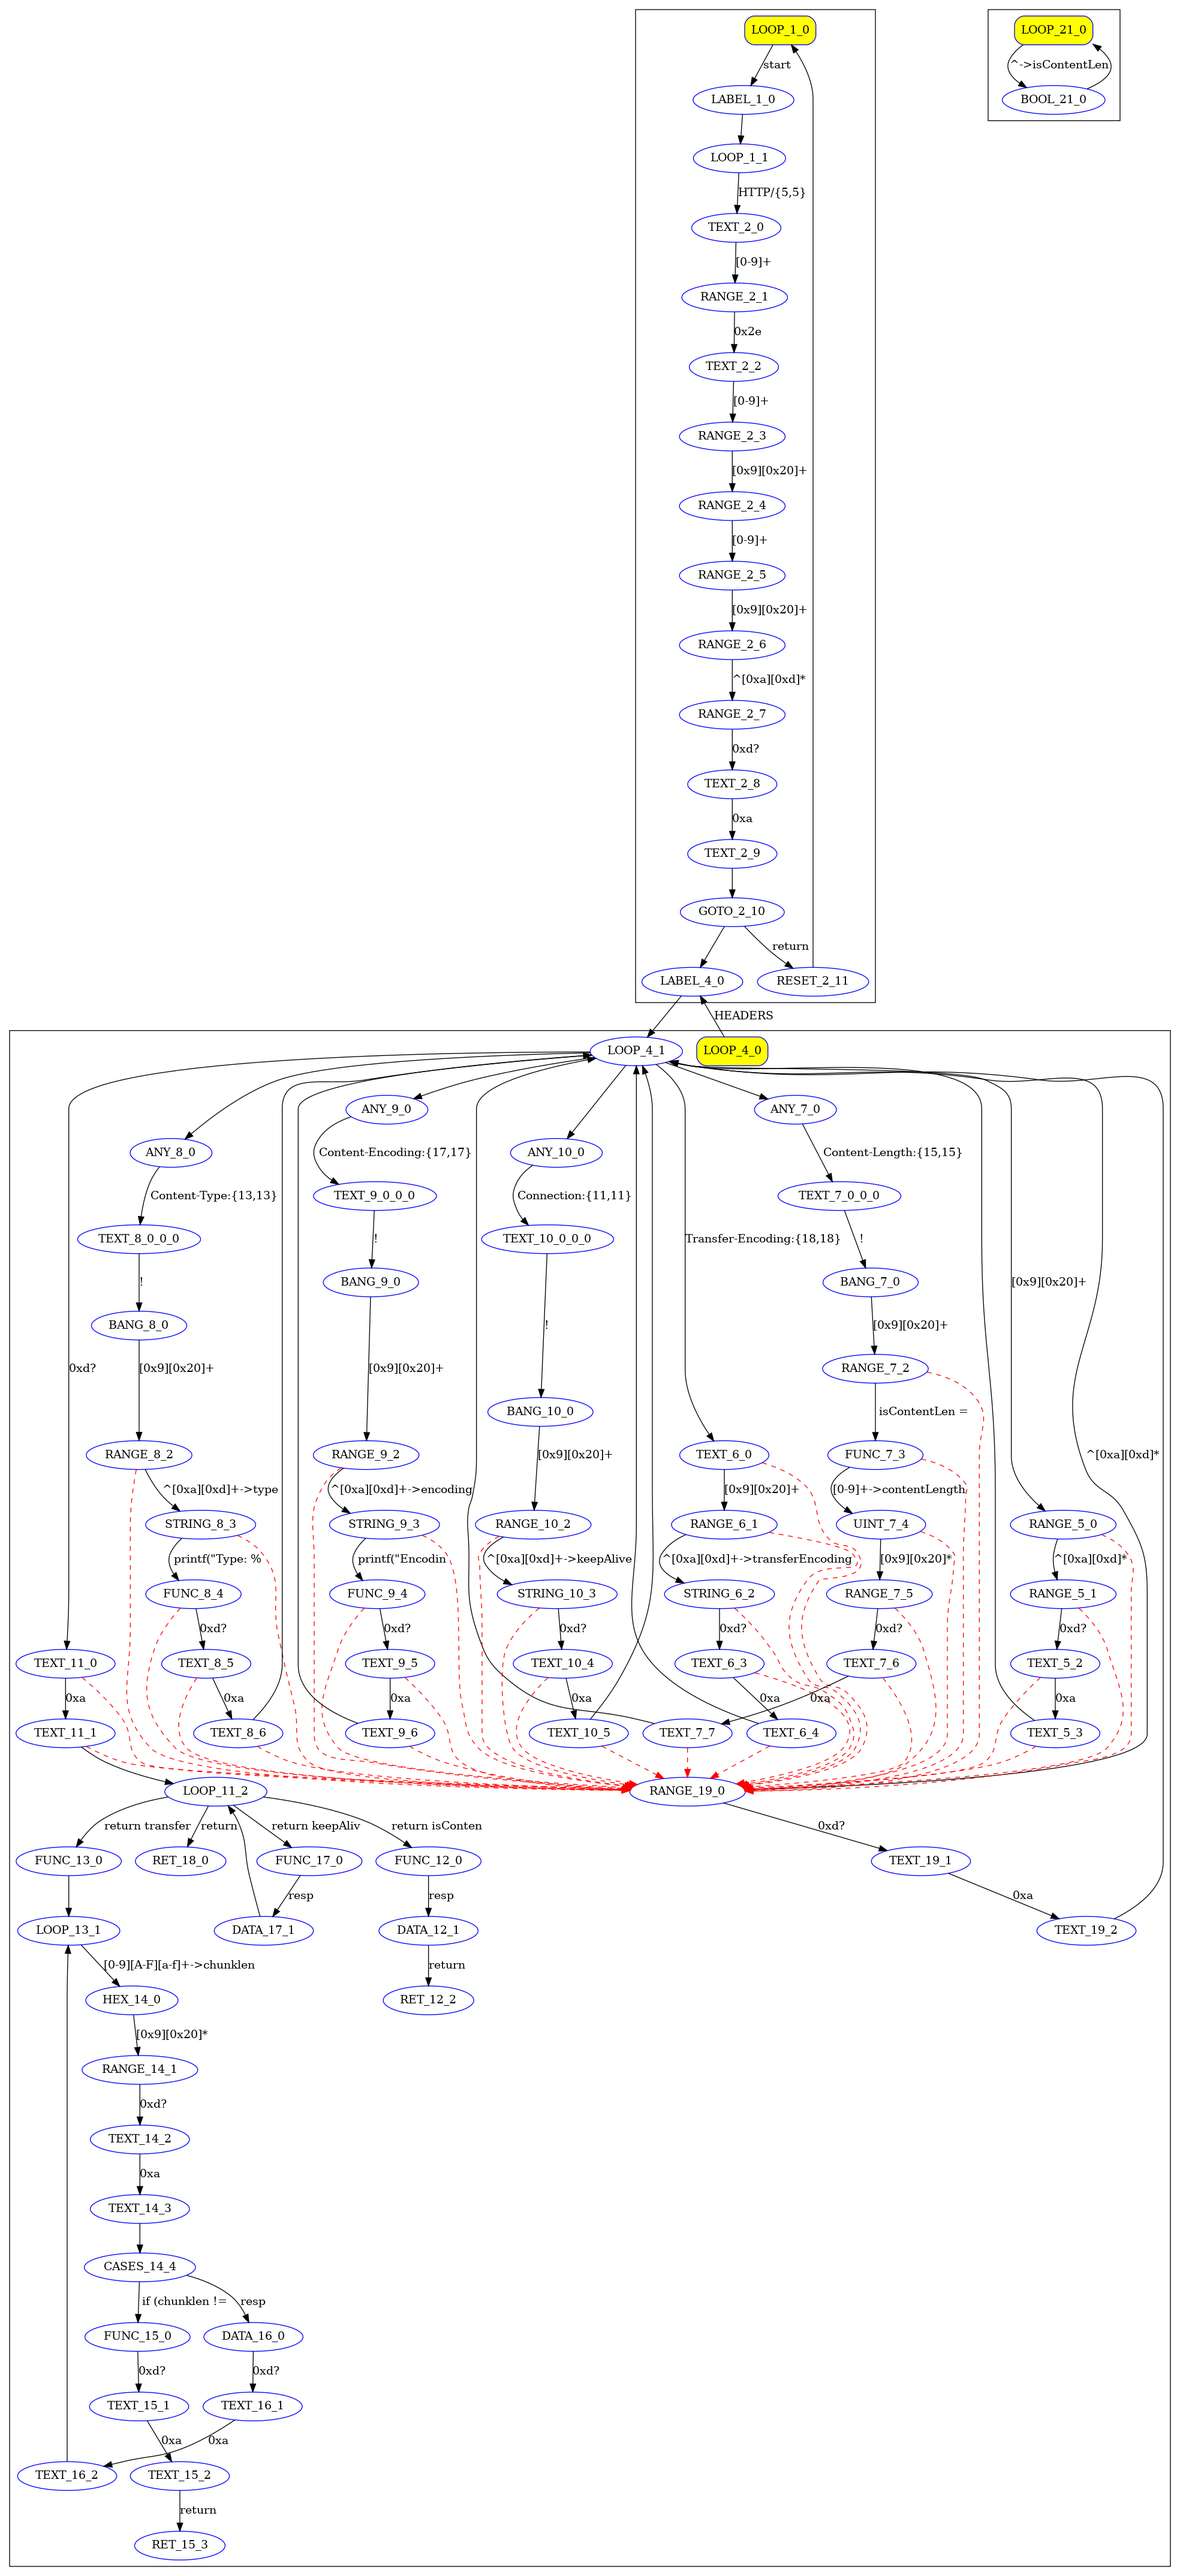
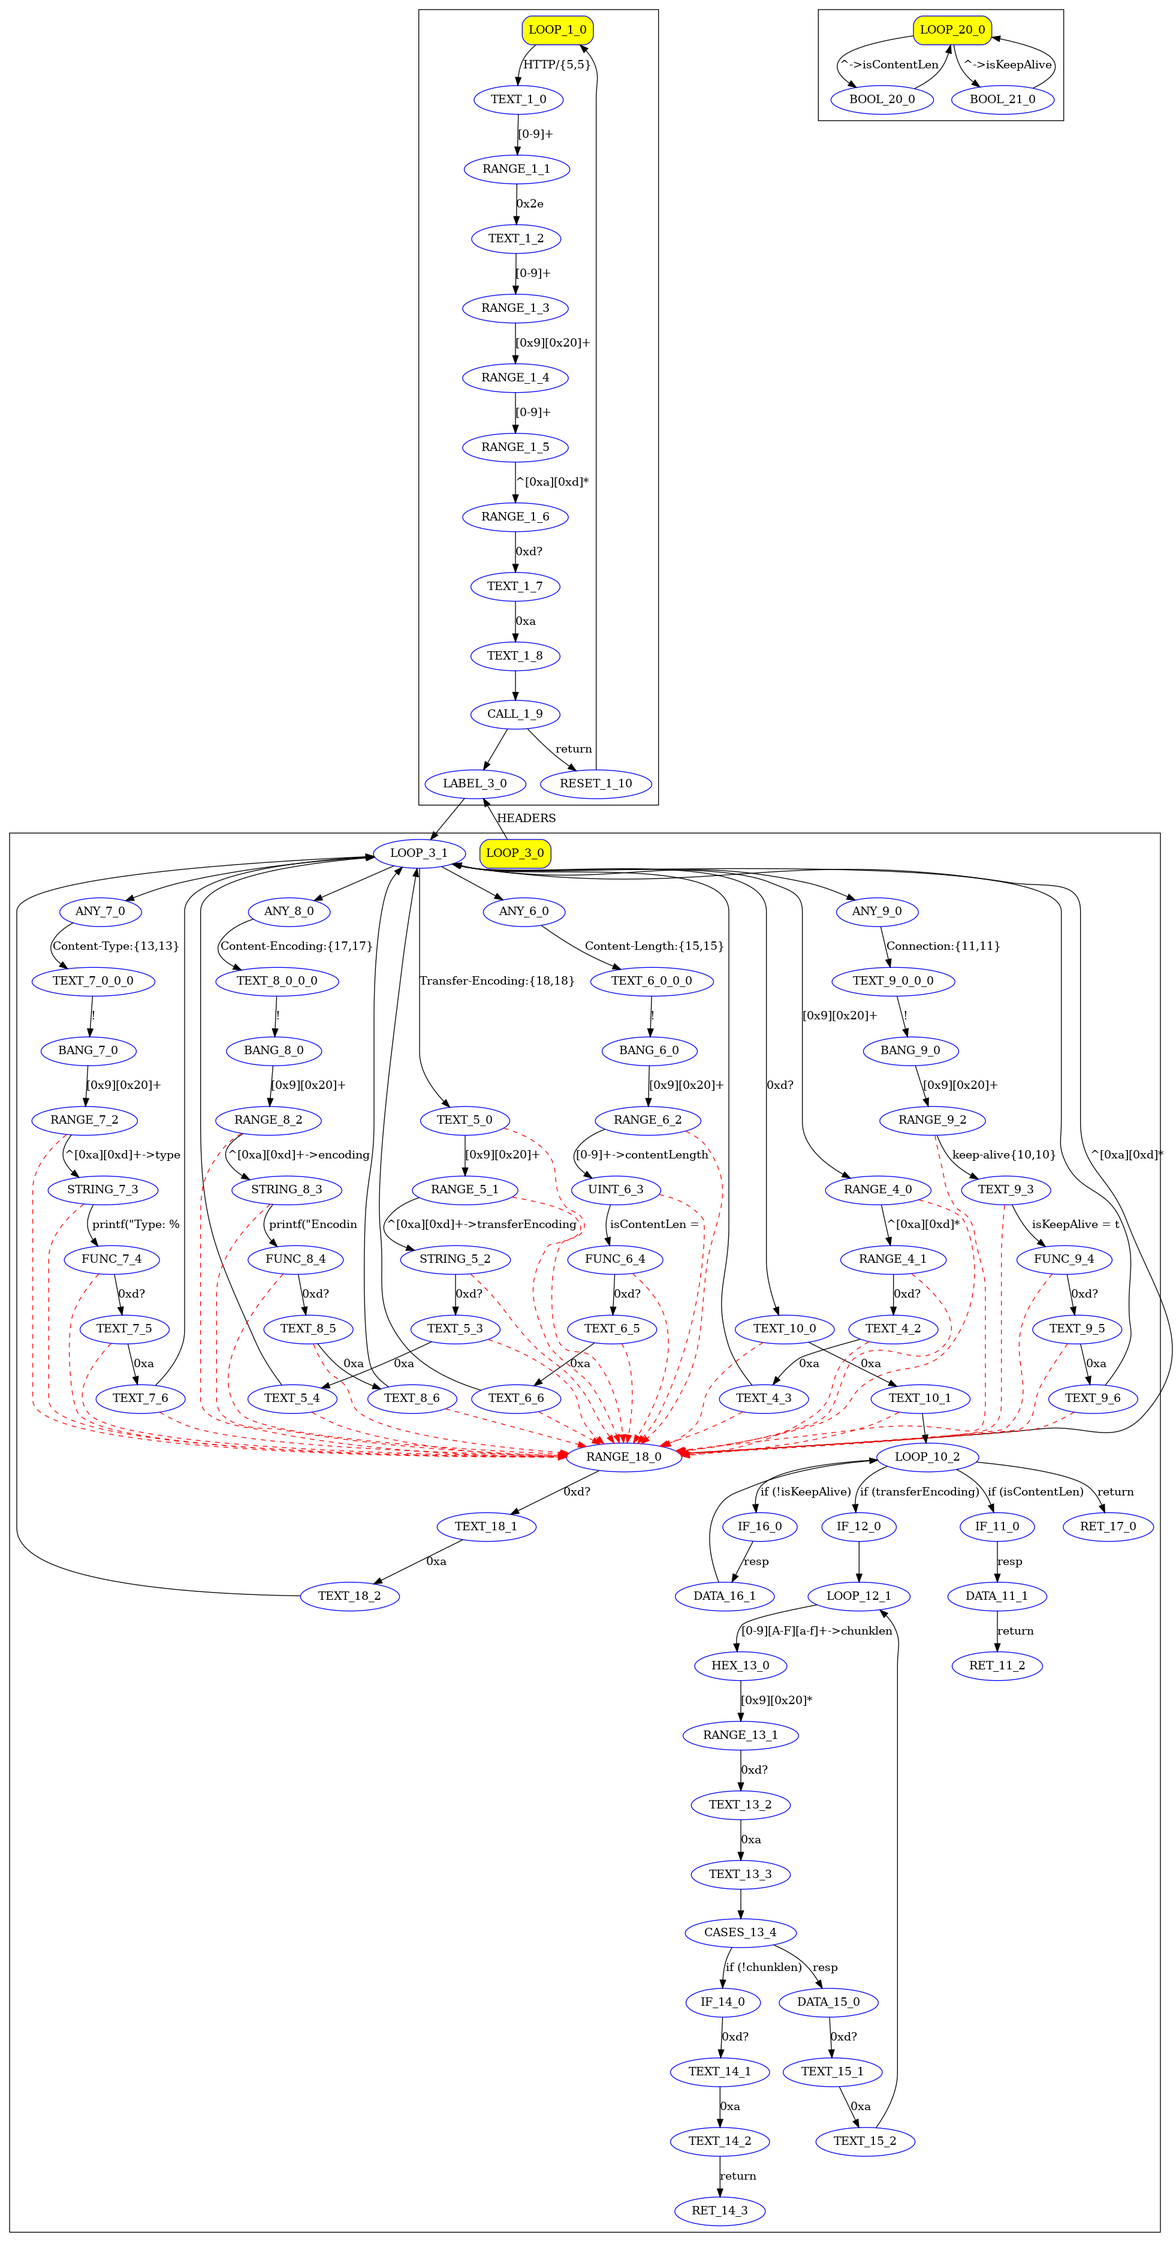
update FSM

diff --git a/httpResp.cc b/httpResp.cc
@@ -1,5 +1,5 @@
 // ==============================================================
-// Date: 2025-09-17 08:30:45 GMT
+// Date: 2025-09-17 18:46:08 GMT
 // Generated using vProto(2025.09.17)        https://www.cgen.dev
 // Author: Sergey V. Shchekoldin     Email: shchekoldin@gmail.com
 // autoSSE: 1 cpp98: 0 (SSE4.2: 1 AVX2: 1 SSE2: 1)
@@ -50,8 +50,8 @@ inline void httpResp::parse(state_t & state)
             case node_t::RANGE_1_5: if (!range_1_5(state) || state.node != node_t::RANGE_1_6) break; [[fallthrough]];
             case node_t::RANGE_1_6: if (!range_1_6(state) || state.node != node_t::TEXT_1_7) break; [[fallthrough]];
             case node_t::TEXT_1_7: if (!text_1_7(state) || state.node != node_t::TEXT_1_8) break; [[fallthrough]];
-            case node_t::TEXT_1_8: if (!text_1_8(state) || state.node != node_t::GOTO_1_9) break; [[fallthrough]];
-            case node_t::GOTO_1_9: if (!goto_1_9(state) || state.node != node_t::RESET_1_10) break; [[fallthrough]];
+            case node_t::TEXT_1_8: if (!text_1_8(state) || state.node != node_t::CALL_1_9) break; [[fallthrough]];
+            case node_t::CALL_1_9: if (!call_1_9(state) || state.node != node_t::RESET_1_10) break; [[fallthrough]];
             case node_t::RESET_1_10: reset_1_10(state); break;
             case node_t::LOOP_3_0: loop_3_0(state); break;
             case node_t::LABEL_3_0: if (!label_3_0(state) || state.node != node_t::LOOP_3_1) break; [[fallthrough]];
@@ -100,24 +100,24 @@ inline void httpResp::parse(state_t & state)
             case node_t::TEXT_10_0: if (!text_10_0(state) || state.node != node_t::TEXT_10_1) break; [[fallthrough]];
             case node_t::TEXT_10_1: if (!text_10_1(state) || state.node != node_t::LOOP_10_2) break; [[fallthrough]];
             case node_t::LOOP_10_2: loop_10_2(state); break;
-            case node_t::FUNC_11_0: if (!func_11_0(state) || state.node != node_t::DATA_11_1) break; [[fallthrough]];
+            case node_t::IF_11_0: if (!if_11_0(state) || state.node != node_t::DATA_11_1) break; [[fallthrough]];
             case node_t::DATA_11_1: if (!data_11_1(state) || state.node != node_t::RET_11_2) break; [[fallthrough]];
             case node_t::RET_11_2: ret_11_2(state); break;
-            case node_t::FUNC_12_0: if (!func_12_0(state) || state.node != node_t::LOOP_12_1) break; [[fallthrough]];
+            case node_t::IF_12_0: if (!if_12_0(state) || state.node != node_t::LOOP_12_1) break; [[fallthrough]];
             case node_t::LOOP_12_1: loop_12_1(state); break;
             case node_t::HEX_13_0: if (!hex_13_0(state) || state.node != node_t::RANGE_13_1) break; [[fallthrough]];
             case node_t::RANGE_13_1: if (!range_13_1(state) || state.node != node_t::TEXT_13_2) break; [[fallthrough]];
             case node_t::TEXT_13_2: if (!text_13_2(state) || state.node != node_t::TEXT_13_3) break; [[fallthrough]];
             case node_t::TEXT_13_3: if (!text_13_3(state) || state.node != node_t::CASES_13_4) break; [[fallthrough]];
             case node_t::CASES_13_4: cases_13_4(state); break;
-            case node_t::FUNC_14_0: if (!func_14_0(state) || state.node != node_t::TEXT_14_1) break; [[fallthrough]];
+            case node_t::IF_14_0: if (!if_14_0(state) || state.node != node_t::TEXT_14_1) break; [[fallthrough]];
             case node_t::TEXT_14_1: if (!text_14_1(state) || state.node != node_t::TEXT_14_2) break; [[fallthrough]];
             case node_t::TEXT_14_2: if (!text_14_2(state) || state.node != node_t::RET_14_3) break; [[fallthrough]];
             case node_t::RET_14_3: ret_14_3(state); break;
             case node_t::DATA_15_0: if (!data_15_0(state) || state.node != node_t::TEXT_15_1) break; [[fallthrough]];
             case node_t::TEXT_15_1: if (!text_15_1(state) || state.node != node_t::TEXT_15_2) break; [[fallthrough]];
             case node_t::TEXT_15_2: text_15_2(state); break;
-            case node_t::FUNC_16_0: if (!func_16_0(state) || state.node != node_t::DATA_16_1) break; [[fallthrough]];
+            case node_t::IF_16_0: if (!if_16_0(state) || state.node != node_t::DATA_16_1) break; [[fallthrough]];
             case node_t::DATA_16_1: data_16_1(state); break;
             case node_t::RET_17_0: ret_17_0(state); break;
             case node_t::RANGE_18_0: if (!range_18_0(state) || state.node != node_t::TEXT_18_1) break; [[fallthrough]];
@@ -723,7 +723,7 @@ inline bool httpResp::text_1_8(state_t & state)
             return false;
         } else {
             state.data++;
-            state.node = node_t::GOTO_1_9;
+            state.node = node_t::CALL_1_9;
             return true;
         }
     }
@@ -731,7 +731,7 @@ inline bool httpResp::text_1_8(state_t & state)
     return true;
 }
 
-inline bool httpResp::goto_1_9(state_t & state)
+inline bool httpResp::call_1_9(state_t & state)
 {
     state.node = node_t::LABEL_3_0;
     if (state.retStackCount < state.retStack.size())
@@ -1579,9 +1579,13 @@ inline bool httpResp::_func_6_4()
 }
 inline bool httpResp::func_6_4(state_t & state)
 {
-    bool ret = _func_6_4();
-    state.node = ret ? node_t::TEXT_6_5 : node_t::RANGE_18_0;
-    return ret;
+    if (_func_6_4())
+    {
+        state.node = node_t::TEXT_6_5;
+        return true;
+    }
+    state.node = node_t::RANGE_18_0;
+    return false;
 }
 
 inline bool httpResp::text_6_5(state_t & state)
@@ -1921,9 +1925,13 @@ inline bool httpResp::_func_7_4()
 }
 inline bool httpResp::func_7_4(state_t & state)
 {
-    bool ret = _func_7_4();
-    state.node = ret ? node_t::TEXT_7_5 : node_t::RANGE_18_0;
-    return ret;
+    if (_func_7_4())
+    {
+        state.node = node_t::TEXT_7_5;
+        return true;
+    }
+    state.node = node_t::RANGE_18_0;
+    return false;
 }
 
 inline bool httpResp::text_7_5(state_t & state)
@@ -2263,9 +2271,13 @@ inline bool httpResp::_func_8_4()
 }
 inline bool httpResp::func_8_4(state_t & state)
 {
-    bool ret = _func_8_4();
-    state.node = ret ? node_t::TEXT_8_5 : node_t::RANGE_18_0;
-    return ret;
+    if (_func_8_4())
+    {
+        state.node = node_t::TEXT_8_5;
+        return true;
+    }
+    state.node = node_t::RANGE_18_0;
+    return false;
 }
 
 inline bool httpResp::text_8_5(state_t & state)
@@ -2501,9 +2513,13 @@ inline bool httpResp::_func_9_4()
 }
 inline bool httpResp::func_9_4(state_t & state)
 {
-    bool ret = _func_9_4();
-    state.node = ret ? node_t::TEXT_9_5 : node_t::RANGE_18_0;
-    return ret;
+    if (_func_9_4())
+    {
+        state.node = node_t::TEXT_9_5;
+        return true;
+    }
+    state.node = node_t::RANGE_18_0;
+    return false;
 }
 
 inline bool httpResp::text_9_5(state_t & state)
@@ -2580,11 +2596,11 @@ inline bool httpResp::text_10_1(state_t & state)
 
 inline bool httpResp::loop_10_2(state_t & state)
 {
-    if (func_11_0(state)) // case_1
+    if (if_11_0(state)) // case_1
         return true;
-    if (func_12_0(state)) // case_2
+    if (if_12_0(state)) // case_2
         return true;
-    if (func_16_0(state)) // case_3
+    if (if_16_0(state)) // case_3
         return true;
     if (ret_17_0(state)) // case_4
         return true;
@@ -2592,16 +2608,15 @@ inline bool httpResp::loop_10_2(state_t & state)
     return true;
 }
 
-inline bool httpResp::_func_11_0()
+inline bool httpResp::if_11_0(state_t & state)
 {
-     return isContentLen; 
-    return true;
-}
-inline bool httpResp::func_11_0(state_t & state)
-{
-    bool ret = _func_11_0();
-    state.node = ret ? node_t::DATA_11_1 : node_t::NO_STATE;
-    return ret;
+    if (isContentLen)
+    {
+        state.node = node_t::DATA_11_1;
+        return true;
+    }
+    state.node = node_t::NO_STATE;
+    return false;
 }
 
 inline bool httpResp::data_11_1(state_t & state)
@@ -2631,16 +2646,15 @@ inline bool httpResp::ret_11_2(state_t & state)
     return state.node != node_t::NO_STATE;
 }
 
-inline bool httpResp::_func_12_0()
+inline bool httpResp::if_12_0(state_t & state)
 {
-     return transferEncoding.find("chunked") != std::string::npos; 
-    return true;
-}
-inline bool httpResp::func_12_0(state_t & state)
-{
-    bool ret = _func_12_0();
-    state.node = ret ? node_t::LOOP_12_1 : node_t::NO_STATE;
-    return ret;
+    if (transferEncoding.find("chunked") != std::string::npos)
+    {
+        state.node = node_t::LOOP_12_1;
+        return true;
+    }
+    state.node = node_t::NO_STATE;
+    return false;
 }
 
 inline bool httpResp::loop_12_1(state_t & state)
@@ -2863,7 +2877,7 @@ inline bool httpResp::cases_13_4(state_t & state)
 {
     if (state.data == state.end)
         return true;
-    if (func_14_0(state)) // case_1
+    if (if_14_0(state)) // case_1
         return true;
     if (data_15_0(state)) // case_2
         return true;
@@ -2871,16 +2885,15 @@ inline bool httpResp::cases_13_4(state_t & state)
     return true;
 }
 
-inline bool httpResp::_func_14_0()
+inline bool httpResp::if_14_0(state_t & state)
 {
-     return !chunklen; 
-    return true;
-}
-inline bool httpResp::func_14_0(state_t & state)
-{
-    bool ret = _func_14_0();
-    state.node = ret ? node_t::TEXT_14_1 : node_t::NO_STATE;
-    return ret;
+    if (!chunklen)
+    {
+        state.node = node_t::TEXT_14_1;
+        return true;
+    }
+    state.node = node_t::NO_STATE;
+    return false;
 }
 
 inline bool httpResp::text_14_1(state_t & state)
@@ -2982,16 +2995,15 @@ inline bool httpResp::text_15_2(state_t & state)
     return true;
 }
 
-inline bool httpResp::_func_16_0()
+inline bool httpResp::if_16_0(state_t & state)
 {
-     return !isKeepAlive; 
-    return true;
-}
-inline bool httpResp::func_16_0(state_t & state)
-{
-    bool ret = _func_16_0();
-    state.node = ret ? node_t::DATA_16_1 : node_t::NO_STATE;
-    return ret;
+    if (!isKeepAlive)
+    {
+        state.node = node_t::DATA_16_1;
+        return true;
+    }
+    state.node = node_t::NO_STATE;
+    return false;
 }
 
 inline bool httpResp::data_16_1(state_t & state)
@@ -3222,7 +3234,7 @@ const char * httpResp::state_t::name() const
         case node_t::RANGE_1_6: return "RANGE_1_6";
         case node_t::TEXT_1_7: return "TEXT_1_7";
         case node_t::TEXT_1_8: return "TEXT_1_8";
-        case node_t::GOTO_1_9: return "GOTO_1_9";
+        case node_t::CALL_1_9: return "CALL_1_9";
         case node_t::RESET_1_10: return "RESET_1_10";
         case node_t::LOOP_3_0: return "LOOP_3_0";
         case node_t::LABEL_3_0: return "LABEL_3_0";
@@ -3271,24 +3283,24 @@ const char * httpResp::state_t::name() const
         case node_t::TEXT_10_0: return "TEXT_10_0";
         case node_t::TEXT_10_1: return "TEXT_10_1";
         case node_t::LOOP_10_2: return "LOOP_10_2";
-        case node_t::FUNC_11_0: return "FUNC_11_0";
+        case node_t::IF_11_0: return "IF_11_0";
         case node_t::DATA_11_1: return "DATA_11_1";
         case node_t::RET_11_2: return "RET_11_2";
-        case node_t::FUNC_12_0: return "FUNC_12_0";
+        case node_t::IF_12_0: return "IF_12_0";
         case node_t::LOOP_12_1: return "LOOP_12_1";
         case node_t::HEX_13_0: return "HEX_13_0";
         case node_t::RANGE_13_1: return "RANGE_13_1";
         case node_t::TEXT_13_2: return "TEXT_13_2";
         case node_t::TEXT_13_3: return "TEXT_13_3";
         case node_t::CASES_13_4: return "CASES_13_4";
-        case node_t::FUNC_14_0: return "FUNC_14_0";
+        case node_t::IF_14_0: return "IF_14_0";
         case node_t::TEXT_14_1: return "TEXT_14_1";
         case node_t::TEXT_14_2: return "TEXT_14_2";
         case node_t::RET_14_3: return "RET_14_3";
         case node_t::DATA_15_0: return "DATA_15_0";
         case node_t::TEXT_15_1: return "TEXT_15_1";
         case node_t::TEXT_15_2: return "TEXT_15_2";
-        case node_t::FUNC_16_0: return "FUNC_16_0";
+        case node_t::IF_16_0: return "IF_16_0";
         case node_t::DATA_16_1: return "DATA_16_1";
         case node_t::RET_17_0: return "RET_17_0";
         case node_t::RANGE_18_0: return "RANGE_18_0";

diff --git a/httpResp.h b/httpResp.h
@@ -1,5 +1,5 @@
 // ==============================================================
-// Date: 2025-09-17 08:30:45 GMT
+// Date: 2025-09-17 18:46:08 GMT
 // Generated using vProto(2025.09.17)        https://www.cgen.dev
 // Author: Sergey V. Shchekoldin     Email: shchekoldin@gmail.com
 // ==============================================================
@@ -40,7 +40,7 @@ private:
     enum class node_t
     {
         LOOP_1_0, // line_1
-            TEXT_1_0, RANGE_1_1, TEXT_1_2, RANGE_1_3, RANGE_1_4, RANGE_1_5, RANGE_1_6, TEXT_1_7, TEXT_1_8, GOTO_1_9, RESET_1_10, 
+            TEXT_1_0, RANGE_1_1, TEXT_1_2, RANGE_1_3, RANGE_1_4, RANGE_1_5, RANGE_1_6, TEXT_1_7, TEXT_1_8, CALL_1_9, RESET_1_10, 
         LOOP_3_0, // line_3
             LABEL_3_0, LOOP_3_1,
                 RANGE_4_0, RANGE_4_1, TEXT_4_2, TEXT_4_3, 
@@ -58,12 +58,12 @@ private:
                     TEXT_9_0_0_0, 
                         BANG_9_0, RANGE_9_2, TEXT_9_3, FUNC_9_4, TEXT_9_5, TEXT_9_6, 
                 TEXT_10_0, TEXT_10_1, LOOP_10_2,
-                    FUNC_11_0, DATA_11_1, RET_11_2, 
-                    FUNC_12_0, LOOP_12_1,
+                    IF_11_0, DATA_11_1, RET_11_2, 
+                    IF_12_0, LOOP_12_1,
                         HEX_13_0, RANGE_13_1, TEXT_13_2, TEXT_13_3, CASES_13_4,
-                            FUNC_14_0, TEXT_14_1, TEXT_14_2, RET_14_3, 
+                            IF_14_0, TEXT_14_1, TEXT_14_2, RET_14_3, 
                             DATA_15_0, TEXT_15_1, TEXT_15_2, 
-                    FUNC_16_0, DATA_16_1, 
+                    IF_16_0, DATA_16_1, 
                     RET_17_0, 
                  // catch:
                 RANGE_18_0, TEXT_18_1, TEXT_18_2, 
@@ -98,7 +98,7 @@ private:
     bool range_1_6(state_t & state);
     bool text_1_7(state_t & state);
     bool text_1_8(state_t & state);
-    bool goto_1_9(state_t & state);
+    bool call_1_9(state_t & state);
     bool reset_1_10(state_t & state);
     bool loop_3_0(state_t & state);
     bool label_3_0(state_t & state);
@@ -155,12 +155,10 @@ private:
     bool text_10_0(state_t & state);
     bool text_10_1(state_t & state);
     bool loop_10_2(state_t & state);
-    bool func_11_0(state_t & state);
-    bool _func_11_0();
+    bool if_11_0(state_t & state);
     bool data_11_1(state_t & state);
     bool ret_11_2(state_t & state);
-    bool func_12_0(state_t & state);
-    bool _func_12_0();
+    bool if_12_0(state_t & state);
     bool loop_12_1(state_t & state);
     bool hex_13_0(state_t & state);
     void _hex_13_0(const char * data, unsigned len, uint64_t consumed);
@@ -168,16 +166,14 @@ private:
     bool text_13_2(state_t & state);
     bool text_13_3(state_t & state);
     bool cases_13_4(state_t & state);
-    bool func_14_0(state_t & state);
-    bool _func_14_0();
+    bool if_14_0(state_t & state);
     bool text_14_1(state_t & state);
     bool text_14_2(state_t & state);
     bool ret_14_3(state_t & state);
     bool data_15_0(state_t & state);
     bool text_15_1(state_t & state);
     bool text_15_2(state_t & state);
-    bool func_16_0(state_t & state);
-    bool _func_16_0();
+    bool if_16_0(state_t & state);
     bool data_16_1(state_t & state);
     bool ret_17_0(state_t & state);
     bool range_18_0(state_t & state);
